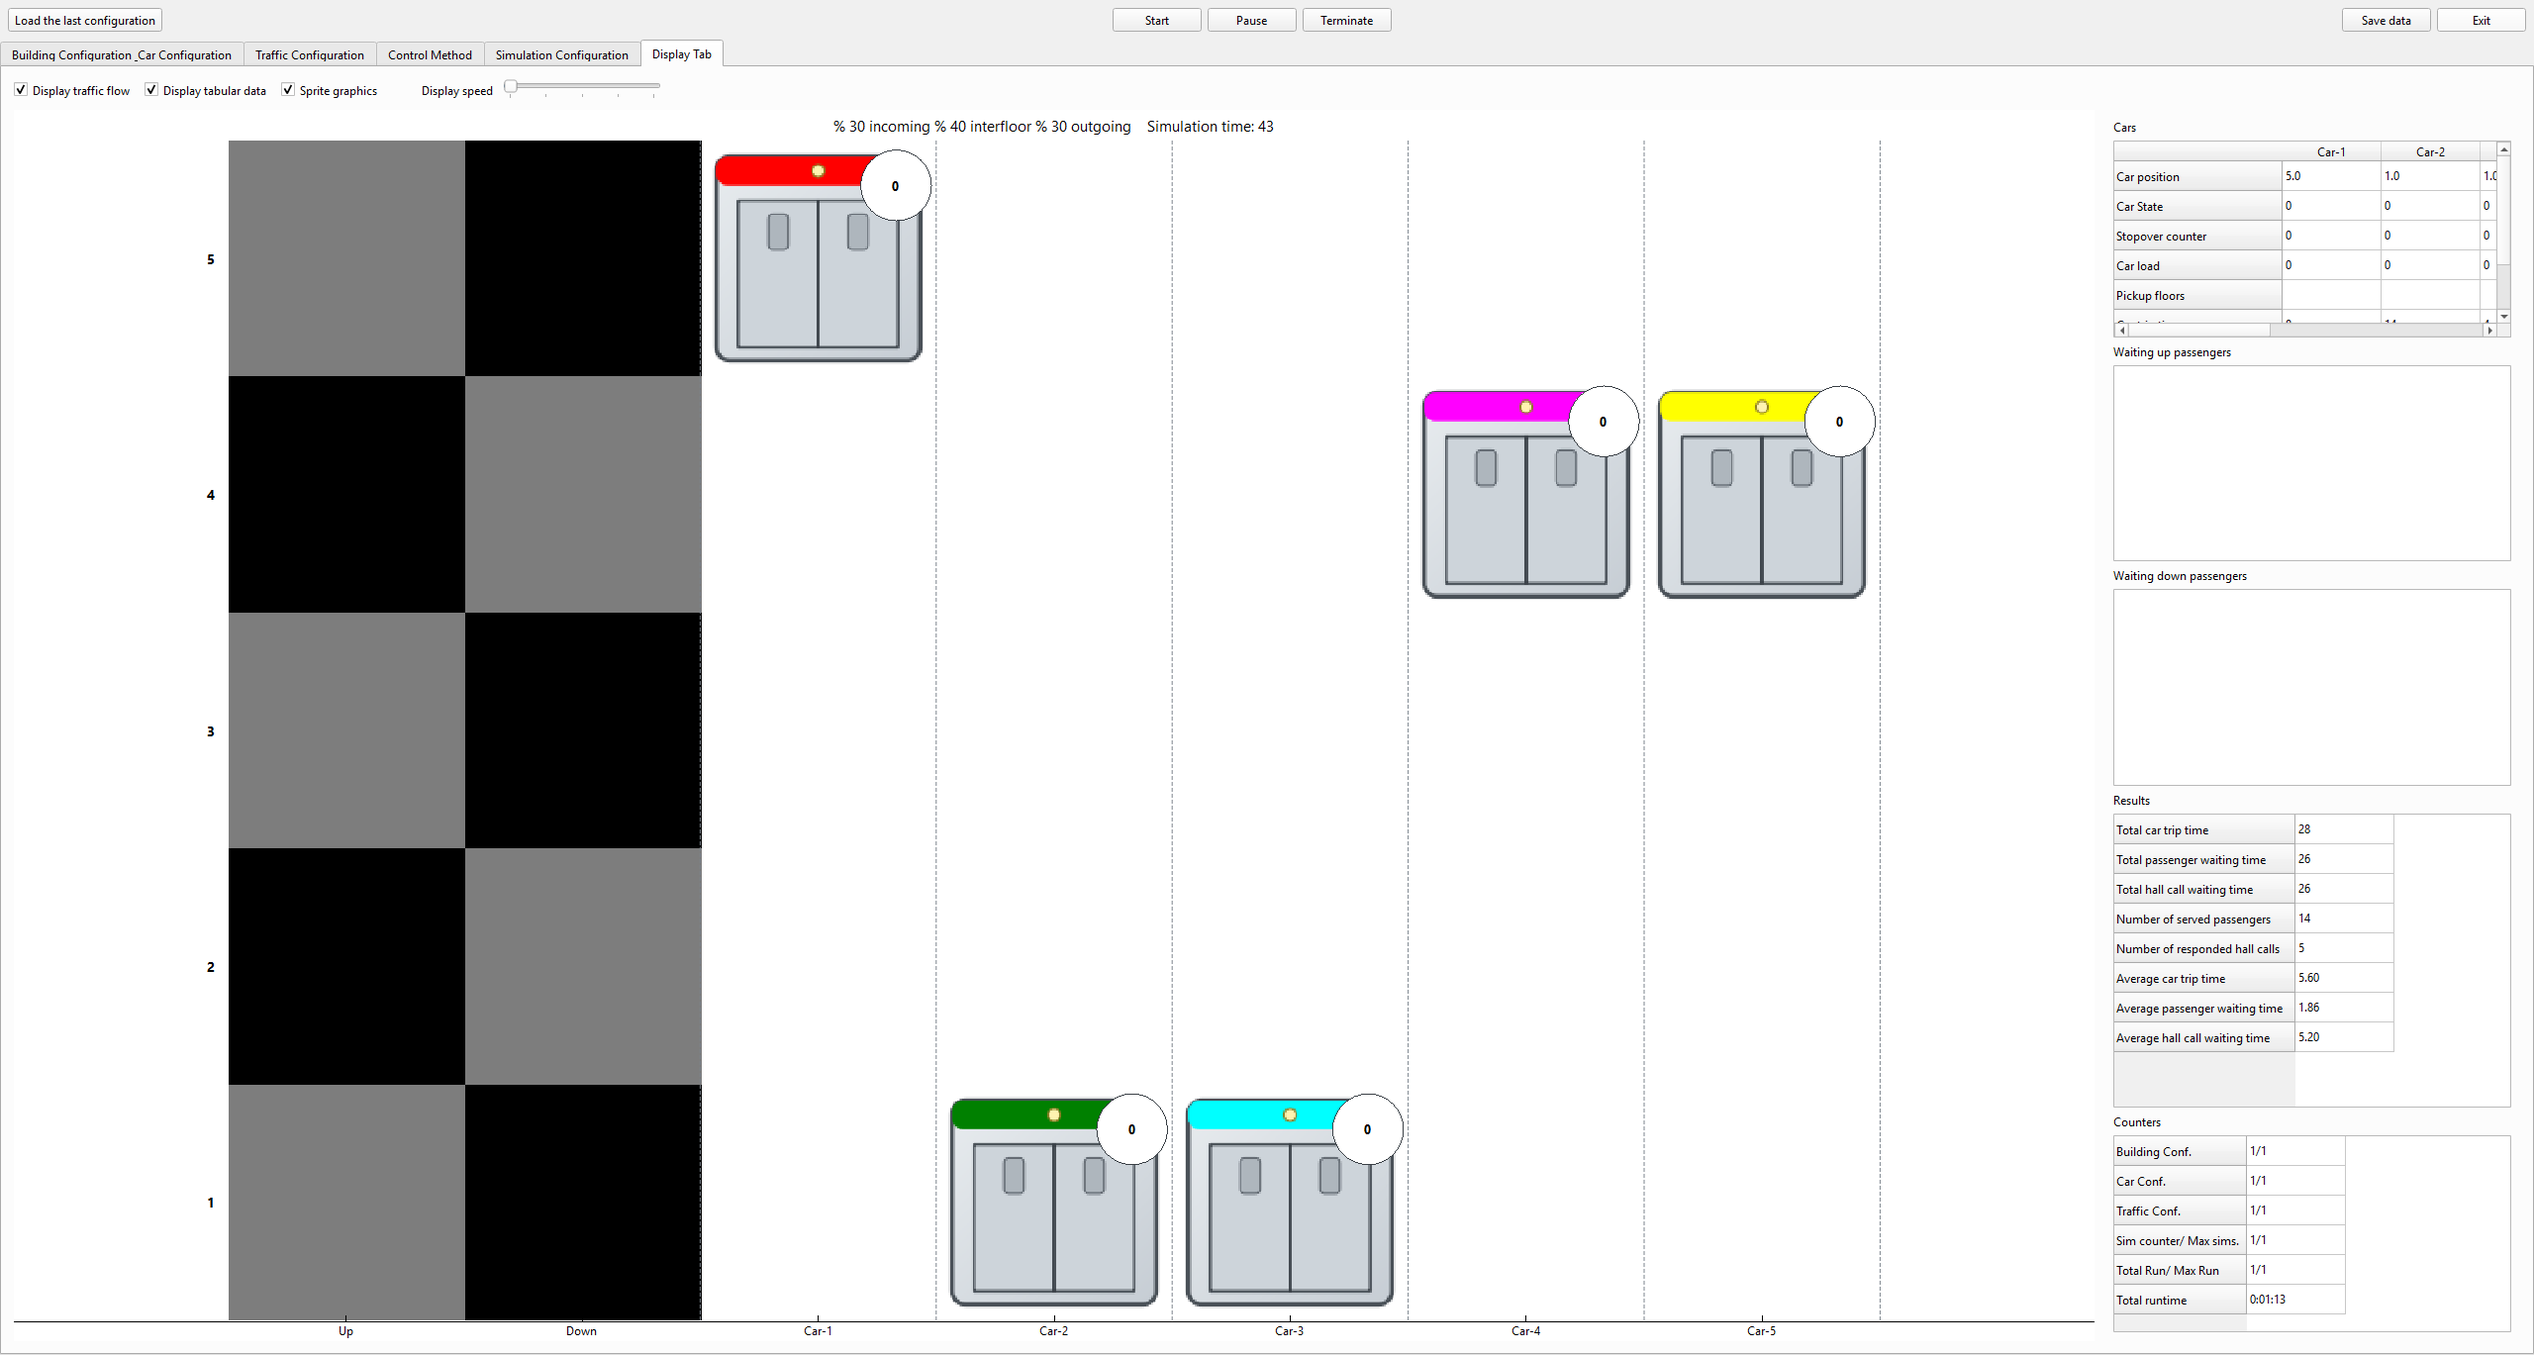
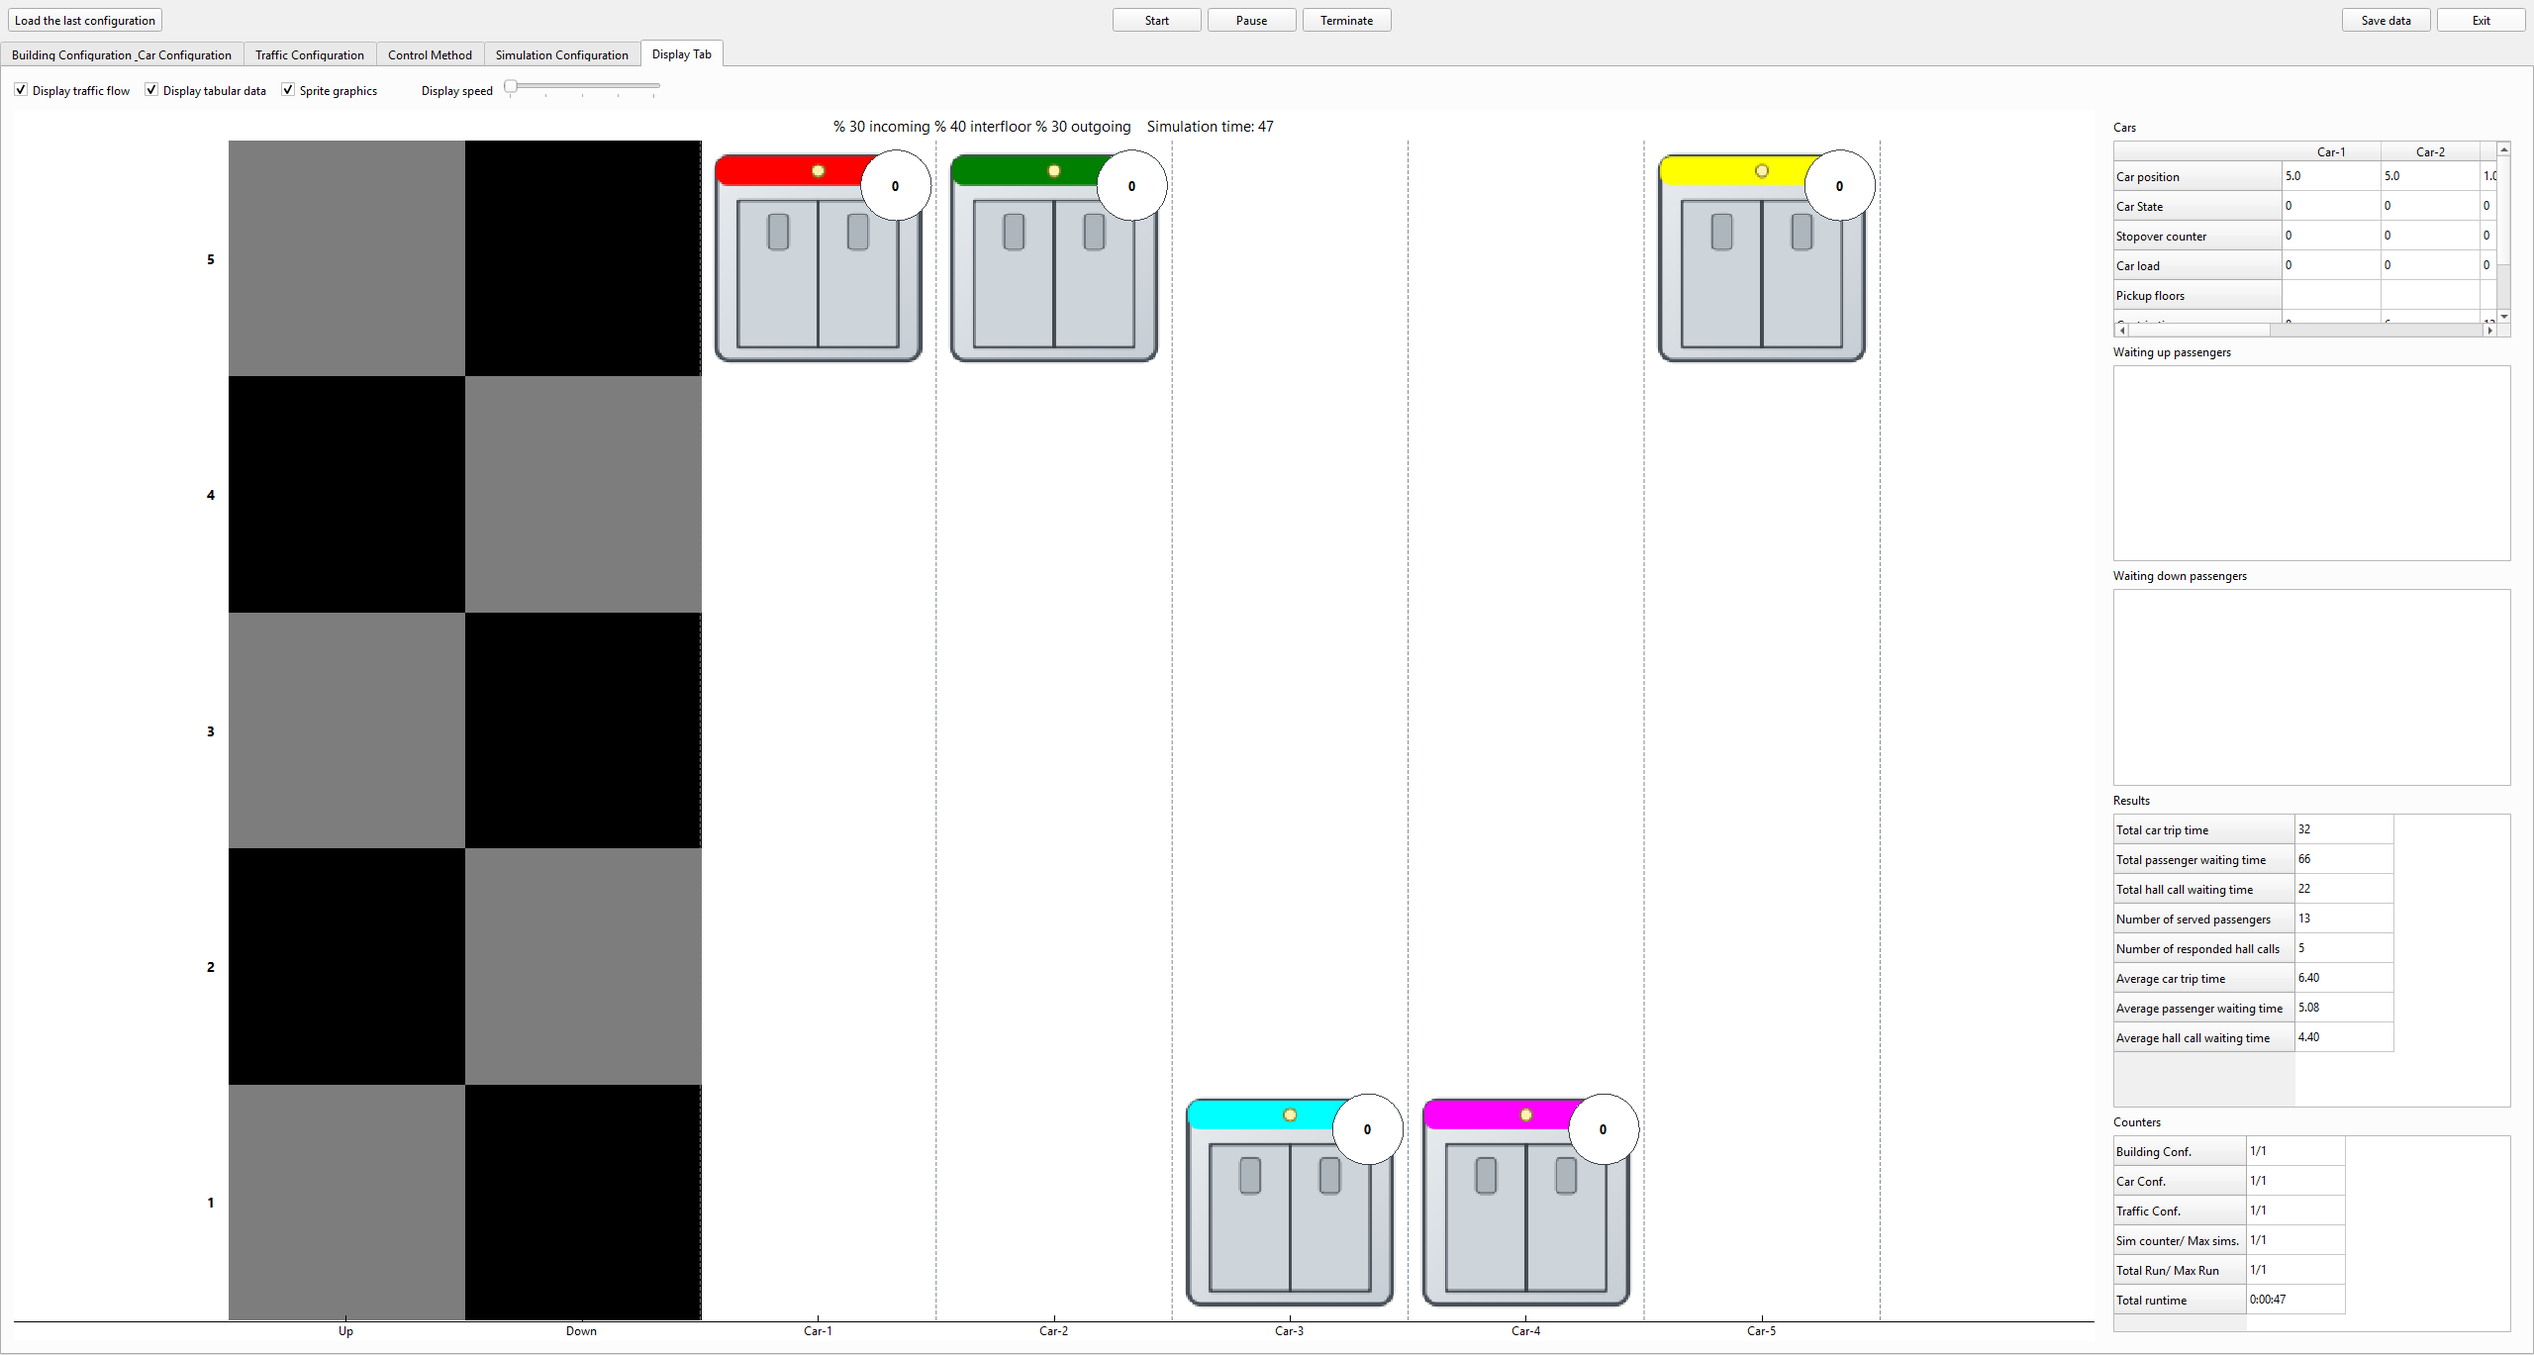
- car.py: replace instantaneous dropoff with beginDropoff/updateDoorCycle;

diff --git a/ESRA_v3/gui/flow_view.py b/ESRA_v3/gui/flow_view.py
@@ -24,6 +24,19 @@ Visual mapping (1:1 with the MATLAB drawBackground/drawCars/drawHCs):
        sprites; orientation alone conveys up/down. The green/red
        triangle above a cabin is unchanged (it shows the car's own
        travel direction, not an assignment).
+  [N3] Landing platform (engine [A1]/[S8]): when the frame carries
+       landingPlatform=True, one extra green-tinted column is drawn
+       right of the last car lane, the x-range and axis ticks widen by
+       one ("Exit"), and passengers alighting during the transfer phase
+       walk from the cabin to the platform: person sprites tinted in
+       the car's colour, placed at x = lerp(cabin, platform,
+       alightProgress), over a dotted guide line while the walk is in
+       progress. A shared walk FRACTION means every car reaches the
+       platform in the same passengerTransferTime regardless of how far
+       its lane is from the right edge. The walkers vanish when the
+       engine clears 'alighting' (transfer counted back to zero,
+       requirement 3). Frames without the flag (e.g. older recorded
+       test frames) render exactly as before.
 """
 
 from __future__ import annotations
@@ -65,6 +78,7 @@ class TrafficFlowView(pg.PlotWidget):
         self.addItem(self._image)
         self._use_sprites = True
         self._last_frame = None
+        self._platform_x: Optional[float] = None    # [N3] column centre
 
     # ------------------------------------------------------------------
     def set_use_sprites(self, enabled: bool) -> None:
@@ -84,19 +98,25 @@ class TrafficFlowView(pg.PlotWidget):
 
         nf = frame["nf"]
         numCars = frame["numCars"]
+        platform = bool(frame.get("landingPlatform"))           # [N3]
+        self._platform_x = float(numCars + 3) if platform else None
+        extra = 1 if platform else 0
         plot = self.plotItem
 
         plot.clear()
         # ---- background checkerboard (drawBackground) -----------------
-        img = np.ones((nf, 2 + numCars, 3))
+        img = np.ones((nf, 2 + numCars + extra, 3))
         img[0::2, 0, :] = 0.85
         img[1::2, 0, :] = 0.70
         img[0::2, 1, :] = 0.70
         img[1::2, 1, :] = 0.85
+        if platform:                                            # [N3]
+            img[0::2, -1] = (0.88, 0.95, 0.88)   # landing platform,
+            img[1::2, -1] = (0.78, 0.90, 0.78)   # green checkerboard
         self._image = pg.ImageItem((img * 255).astype(np.ubyte),
                                    axisOrder="row-major")
         # imagesc semantics: cell centres on integer coordinates, y up
-        self._image.setRect(QRectF(0.5, 0.5, numCars + 2, nf))
+        self._image.setRect(QRectF(0.5, 0.5, numCars + 2 + extra, nf))
         plot.addItem(self._image)
 
         traffic = frame["traffic"]
@@ -123,11 +143,13 @@ class TrafficFlowView(pg.PlotWidget):
         bottom = plot.getAxis("bottom")
         ticks = [(1, "Up"), (2, "Down")] + [
             (i + 2, f"Car-{i}") for i in range(1, numCars + 1)]
+        if platform:                                            # [N3]
+            ticks.append((numCars + 3, "Exit"))
         bottom.setTicks([ticks])
         # [V1] with the aspect locked, the Y range is authoritative: the
         # X range recomputes itself to keep cells square, centring the
         # building horizontally in whatever width the widget has.
-        plot.setXRange(0.5, numCars + 2.5, padding=0)
+        plot.setXRange(0.5, numCars + 2.5 + extra, padding=0)
         plot.setYRange(0.5, nf + 0.5, padding=0)
 
         if self._use_sprites:
@@ -168,6 +190,9 @@ class TrafficFlowView(pg.PlotWidget):
             label.setFont(QFont("Segoe UI", 12, QFont.Bold))
             label.setPos(cid + 2, floor)
             plot.addItem(label)
+
+            # alighting passengers walking to the landing platform [N3]
+            self._draw_walkers_simple(plot, car, colour)
 
         # ---- hall calls (drawHCs) ---------------------------------------
         for dir_, calls in flow["hallCalls"].items():
@@ -256,6 +281,9 @@ class TrafficFlowView(pg.PlotWidget):
             label.setPos(x0 + 0.83, floor + 0.31)
             plot.addItem(label)
 
+            # alighting passengers walking to the landing platform [N3]
+            self._draw_walkers_sprites(plot, car, colour)
+
         # ---- hall calls: waiting people + direction arrow ----------------
         for dir_, calls in flow["hallCalls"].items():
             dir_ = int(dir_)
@@ -289,6 +317,61 @@ class TrafficFlowView(pg.PlotWidget):
                 tri.setBrush(QBrush(colour))
                 tri.setPen(pg.mkPen("#ffffff", width=1))
                 plot.addItem(tri)
+
+    # ------------------------------------------------------------------
+    # [N3] alighting-walk helpers (shared geometry for both renderers)
+    # ------------------------------------------------------------------
+    def _walk_x(self, car) -> Optional[float]:
+        """Walker x-position: lerp(cabin centre, platform centre, progress).
+        None when there is nothing to draw (no walkers / no platform)."""
+        if self._platform_x is None or not car.get("alighting"):
+            return None
+        prog = min(1.0, max(0.0, float(car.get("alightProgress", 0.0))))
+        x_from = car["id"] + 2.0                 # cabin centre
+        return x_from + (self._platform_x - x_from) * prog
+
+    def _draw_walkers_sprites(self, plot, car, colour) -> None:
+        """Person sprites in the car's colour walking to the platform,
+        over a dotted guide line from the cabin doors to the platform."""
+        wx = self._walk_x(car)
+        if wx is None:
+            return
+        floor = car["floor"]
+        guide = QColor(colour)
+        guide.setAlpha(110)
+        plot.addItem(pg.PlotDataItem(
+            [car["id"] + 2.5, self._platform_x], [floor, floor],
+            pen=pg.mkPen(guide, width=2, style=Qt.DotLine)))
+        ids = car["alighting"]
+        n = min(len(ids), 3)
+        person = sprites.person_sprite(QColor(colour))
+        for k in range(n):
+            px = wx + (k - (n - 1) / 2) * 0.26
+            self._add_sprite(plot, person, px - 0.11, floor - 0.42,
+                             0.22, 0.55)
+        if len(ids) > 3:
+            more = pg.TextItem(f"x{len(ids)}", color="k", anchor=(0.5, 0.5))
+            more.setFont(QFont("Segoe UI", 9, QFont.Bold))
+            more.setPos(wx, floor + 0.36)
+            plot.addItem(more)
+
+    def _draw_walkers_simple(self, plot, car, colour) -> None:
+        """Legacy-mode walkers: a filled dot in the car's colour sliding
+        along the floor line towards the platform column."""
+        wx = self._walk_x(car)
+        if wx is None:
+            return
+        floor = car["floor"]
+        dot = QGraphicsEllipseItem(wx - 0.18, floor - 0.18, 0.36, 0.36)
+        dot.setBrush(QBrush(colour))
+        dot.setPen(_EDGE_PEN)
+        plot.addItem(dot)
+        n = len(car["alighting"])
+        if n > 1:
+            cnt = pg.TextItem(str(n), color="k", anchor=(0.5, 0.5))
+            cnt.setFont(QFont("Segoe UI", 9, QFont.Bold))
+            cnt.setPos(wx, floor + 0.34)
+            plot.addItem(cnt)
 
     # ------------------------------------------------------------------
     @staticmethod

diff --git a/ESRA_v3/tests/test_flow_platform.py b/ESRA_v3/tests/test_flow_platform.py
@@ -1,0 +1,126 @@
+"""
+tests/test_flow_platform.py
+============================
+GUI-side tests for the landing-platform animation (flow_view [N3],
+engine [A1]/[S8]). Needs Qt; runs offscreen:
+
+    QT_QPA_PLATFORM=offscreen python tests/test_flow_platform.py
+"""
+import os
+import sys
+
+os.environ.setdefault("QT_QPA_PLATFORM", "offscreen")
+sys.path.insert(0, os.path.dirname(os.path.dirname(os.path.abspath(__file__))))
+sys.path.insert(0, os.path.join(os.path.dirname(os.path.abspath(__file__)), "stubs"))
+
+try:
+    import engine_stubs  # noqa: F401  (data_structures for car.py)
+except ImportError:
+    pass
+
+import pyqtgraph as pg
+from PySide6.QtWidgets import QApplication, QGraphicsEllipseItem
+
+app = QApplication.instance() or QApplication(sys.argv)
+
+from gui.flow_view import TrafficFlowView
+
+BASE = {"time": 12, "nf": 6, "numCars": 2,
+        "traffic": {"inc": 30, "int": 40, "out": 30},
+        "tables": None, "counters": ["-"] * 6}
+
+
+def _frame(platform, alighting=(), prog=0.0):
+    f = dict(BASE)
+    if platform:
+        f["landingPlatform"] = True
+    f["flow"] = {"cars": [
+        {"id": 1, "floor": 4.0, "state": 1, "stopOverCounter": 4.0,
+         "load": 0, "DF": [6], "alight": {6: 2},
+         "alighting": list(alighting), "alightProgress": prog},
+        {"id": 2, "floor": 2.0, "state": 0, "stopOverCounter": 0.0,
+         "load": 1, "DF": [], "alight": {}, "alighting": [],
+         "alightProgress": 0.0}],
+        "hallCalls": {1: [{"floor": 3, "carId": 1, "waitingCount": 2}],
+                      2: []}}
+    return f
+
+
+def _walkers(view):
+    """Person-sized sprites right of the Down lane (excludes HC crowds)."""
+    out = []
+    for it in view.plotItem.items:
+        if isinstance(it, pg.ImageItem) and it is not view._image:
+            r = it.mapRectToParent(it.boundingRect())
+            if 0.20 < r.width() < 0.24 and r.center().x() > 2.5:
+                out.append(r)
+    return out
+
+
+def test_legacy_frame_unchanged(view):
+    """Frames without landingPlatform render exactly as before [N3]."""
+    for mode in (True, False):
+        view.set_use_sprites(mode)
+        view.render_frame(_frame(False))
+        app.processEvents()
+    assert view._image.image.shape[1] == 4 and view._platform_x is None
+    labels = [t[1] for t in view.plotItem.getAxis("bottom")._tickLevels[0]]
+    assert "Exit" not in labels
+    print("PASS  legacy frame: 4 columns, no Exit tick, no platform")
+
+
+def test_platform_and_walkers(view):
+    view.set_use_sprites(True)
+    view.render_frame(_frame(True, alighting=[7, 8], prog=0.5))
+    app.processEvents()
+    assert view._image.image.shape[1] == 5, "platform column missing"
+    labels = [t[1] for t in view.plotItem.getAxis("bottom")._tickLevels[0]]
+    assert "Exit" in labels, labels
+    rects = _walkers(view)
+    assert len(rects) == 2, "two walkers expected"
+    centre = sum(r.center().x() for r in rects) / 2
+    assert abs(centre - 4.0) < 0.02, centre   # lerp(cabin 3, platform 5, .5)
+    assert {round(r.center().y(), 1) for r in rects} == {3.9}   # 3.855
+    print("PASS  sprite walkers: fanned around x=4.00 (=lerp 0.5), floor 4")
+
+
+def test_walk_endpoints(view):
+    view.set_use_sprites(True)
+    for prog, exp in ((0.0, 3.0), (1.0, 5.0)):
+        view.render_frame(_frame(True, alighting=[7], prog=prog))
+        app.processEvents()
+        (r,) = _walkers(view)
+        assert abs(r.center().x() - exp) < 0.02, (prog, r.center().x())
+    print("PASS  walk endpoints: prog 0 at cabin doors, prog 1 on platform")
+
+
+def test_legacy_mode_dot(view):
+    view.set_use_sprites(False)
+    view.render_frame(_frame(True, alighting=[7, 8], prog=0.5))
+    app.processEvents()
+    dots = [it for it in view.plotItem.items
+            if isinstance(it, QGraphicsEllipseItem)
+            and abs(it.rect().width() - 0.36) < 1e-6]
+    assert len(dots) == 1 and abs(dots[0].rect().center().x() - 4.0) < 1e-6
+    print("PASS  legacy walker dot at lerped x, with passenger count")
+
+
+def test_no_walkers_when_empty(view):
+    view.set_use_sprites(True)
+    view.render_frame(_frame(True))
+    app.processEvents()
+    assert not _walkers(view), "no walkers expected when alighting empty"
+    assert view._image.image.shape[1] == 5, "platform column persists"
+    print("PASS  no walkers when alighting empty; platform column persists")
+
+
+if __name__ == "__main__":
+    v = TrafficFlowView()
+    v.resize(500, 500)
+    v.show()
+    test_legacy_frame_unchanged(v)
+    test_platform_and_walkers(v)
+    test_walk_endpoints(v)
+    test_legacy_mode_dot(v)
+    test_no_walkers_when_empty(v)
+    print("\nAll landing-platform renderer tests passed.")

diff --git a/ESRA_v3/simulator.py b/ESRA_v3/simulator.py
@@ -300,16 +300,27 @@ class Simulator:
         # [S8] alighting/alightProgress drive the walk-to-landing-platform
         # animation: ids of passengers currently between the car doors and
         # the platform, plus the shared 0..1 walk fraction for this tick.
-        return [{
-            "id": car.id,
-            "floor": float(car.floor),
-            "state": int(car.state),
-            "stopOverCounter": float(car.stopOverCounter),
-            "load": int(car.load),
-            "DF": sorted(car.DF),
-            "alighting": [a["id"] for a in car.alighting],
-            "alightProgress": car.alightProgress(),
-        } for car in cars]
+        # [S9] 'alight' is the {DF: passenger count} map the sprite
+        # renderer's destination-circle badges expect (flow_view [N1]);
+        # it counts passengers still riding inside the car.
+        out = []
+        for car in cars:
+            alight: Dict[Any, int] = {}
+            for dir_ in (1, 2):
+                for p in car.P.travelling[dir_]:
+                    alight[p.DF] = alight.get(p.DF, 0) + 1
+            out.append({
+                "id": car.id,
+                "floor": float(car.floor),
+                "state": int(car.state),
+                "stopOverCounter": float(car.stopOverCounter),
+                "load": int(car.load),
+                "DF": sorted(car.DF),
+                "alight": alight,
+                "alighting": [a["id"] for a in car.alighting],
+                "alightProgress": car.alightProgress(),
+            })
+        return out
 
     def drawHCs(self, P: Any, HC: Any) -> Dict[int, List[Dict[str, Any]]]:
         out: Dict[int, List[Dict[str, Any]]] = {1: [], 2: []}
